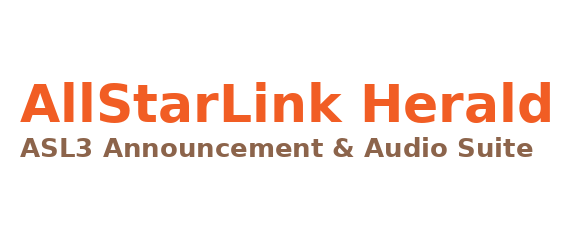
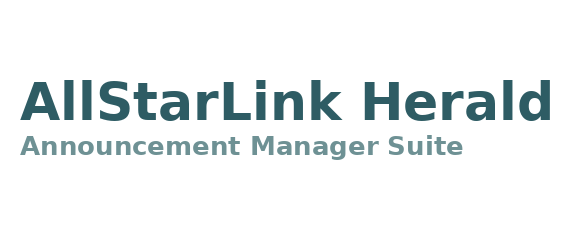
Rebrand web UI headers to AllStarLink Herald - Announcement Manager Suite
Finalizes the title banner color (steel/slate teal) and wording, and
brings the Allmon3/Supermon page headers, title, and meta description
in line with the new README branding.

Changed region(s): [[0.0296, 0.3208, 0.5923, 0.525], [0.0296, 0.5542, 0.9477, 0.6708], [0.622, 0.3208, 0.9774, 0.525]]

diff --git a/web/allmon3/asl3-herald.html b/web/allmon3/asl3-herald.html
@@ -16,9 +16,9 @@
     <meta http-equiv="content-type" content="text/html; charset=UTF-8">
     <meta charset="utf-8">
     <meta name="viewport" content="width=device-width, initial-scale=1">
-    <meta name="description" content="ASL3 Herald Announcement Settings">
+    <meta name="description" content="AllStarLink Herald - Announcement Manager Suite">
     <meta name="author" content="N6LKA">
-    <title>ASL3 Herald — Announcement Settings</title>
+    <title>AllStarLink Herald — Announcement Manager Suite</title>
 
     <!-- CSS -->
     <link href="css/bootstrap.min.css" rel="stylesheet" crossorigin="anonymous">
@@ -136,7 +136,7 @@
         <main class="col-md-9 ms-sm-auto col-lg-10 px-md-4">
             <h2 class="mt-3 d-flex align-items-center gap-2">
                 <img src="/asl3-herald/img/herald-icon.png" alt="" width="32" height="32">
-                ASL3 Herald — Announcement Settings
+                AllStarLink Herald — Announcement Manager Suite
             </h2>
             <div id="herald-gate">
                 <p>Checking Allmon3 login status&hellip;</p>
@@ -186,7 +186,7 @@ window.addEventListener('pageshow', async function() {
             s.src = "/asl3-herald/herald-ui.js?_=" + Date.now();
             document.body.appendChild(s);
         } catch (e) {
-            gate.innerHTML = "<p style='color:#dc3545;'>Could not load ASL3 Herald. Check that the web UI is installed.</p>";
+            gate.innerHTML = "<p style='color:#dc3545;'>Could not load AllStarLink Herald. Check that the web UI is installed.</p>";
         }
     } else {
         gate.innerHTML = "<p>Please log in to Allmon3 (left menu) to manage announcements.</p>";

diff --git a/web/supermon/asl3-herald.php b/web/supermon/asl3-herald.php
@@ -18,7 +18,7 @@ include("header.inc");
 
 <h2 style="margin: 12px 16px 0; display: flex; align-items: center; gap: 8px;">
     <img src="/asl3-herald/img/herald-icon.png" alt="" width="32" height="32">
-    ASL3 Herald &mdash; Announcement Settings
+    AllStarLink Herald &mdash; Announcement Manager Suite
 </h2>
 
 <?php if (isset($_SESSION['sm61loggedin']) && $_SESSION['sm61loggedin'] === true): ?>
@@ -34,7 +34,7 @@ include("header.inc");
     <script src="/asl3-herald/herald-ui.js?v=<?php echo $herald_ui_js_ver; ?>"></script>
 <?php else: ?>
     <p style="text-align:center; margin-top:40px;">
-        Please log in (top of page) to manage ASL3 Herald announcements.
+        Please log in (top of page) to manage AllStarLink Herald announcements.
     </p>
 <?php endif; ?>
 
